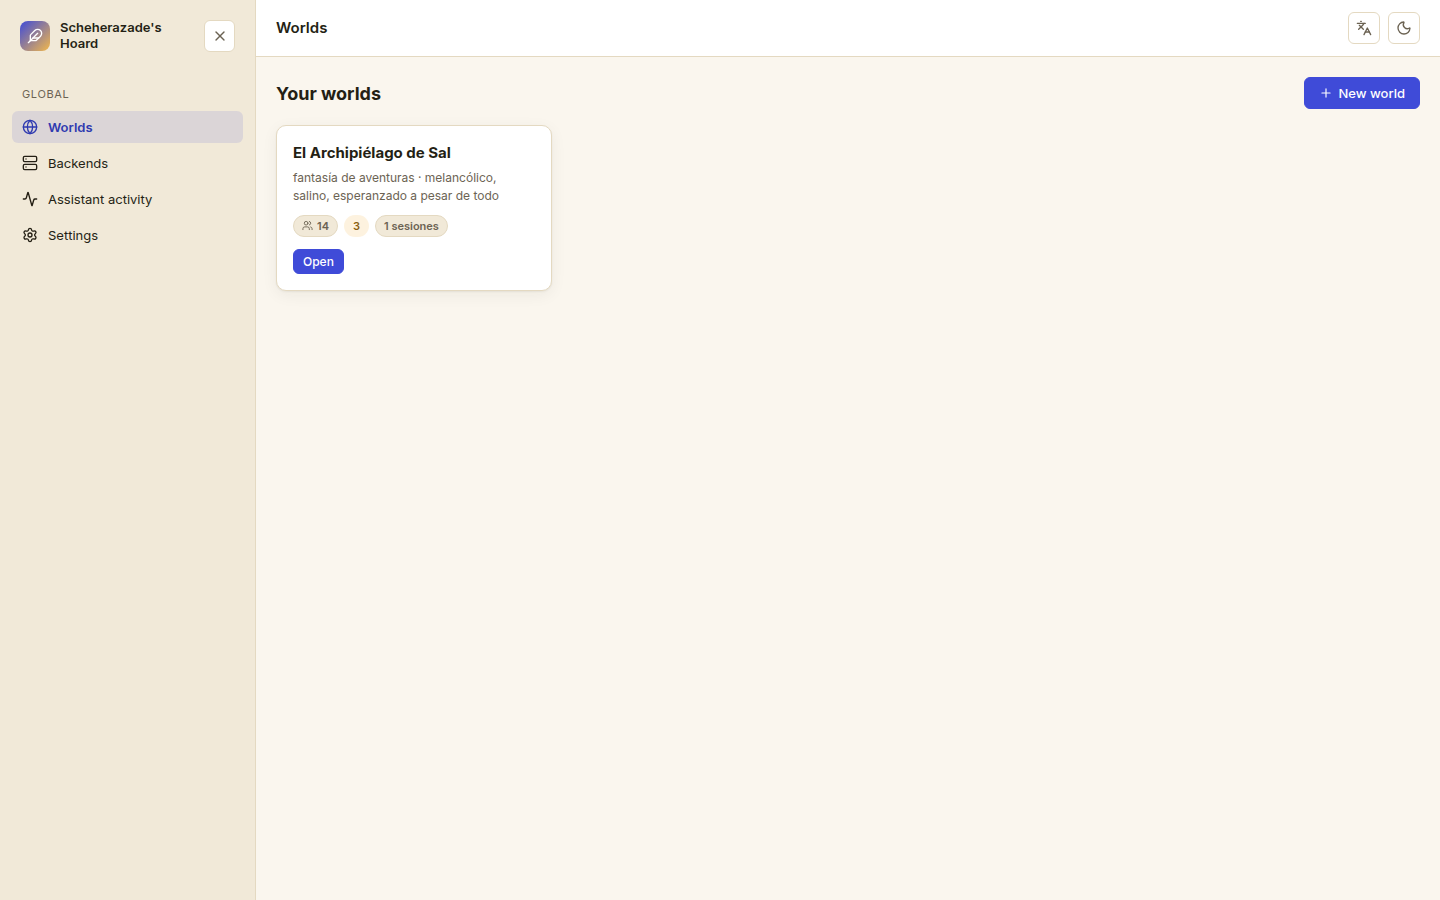
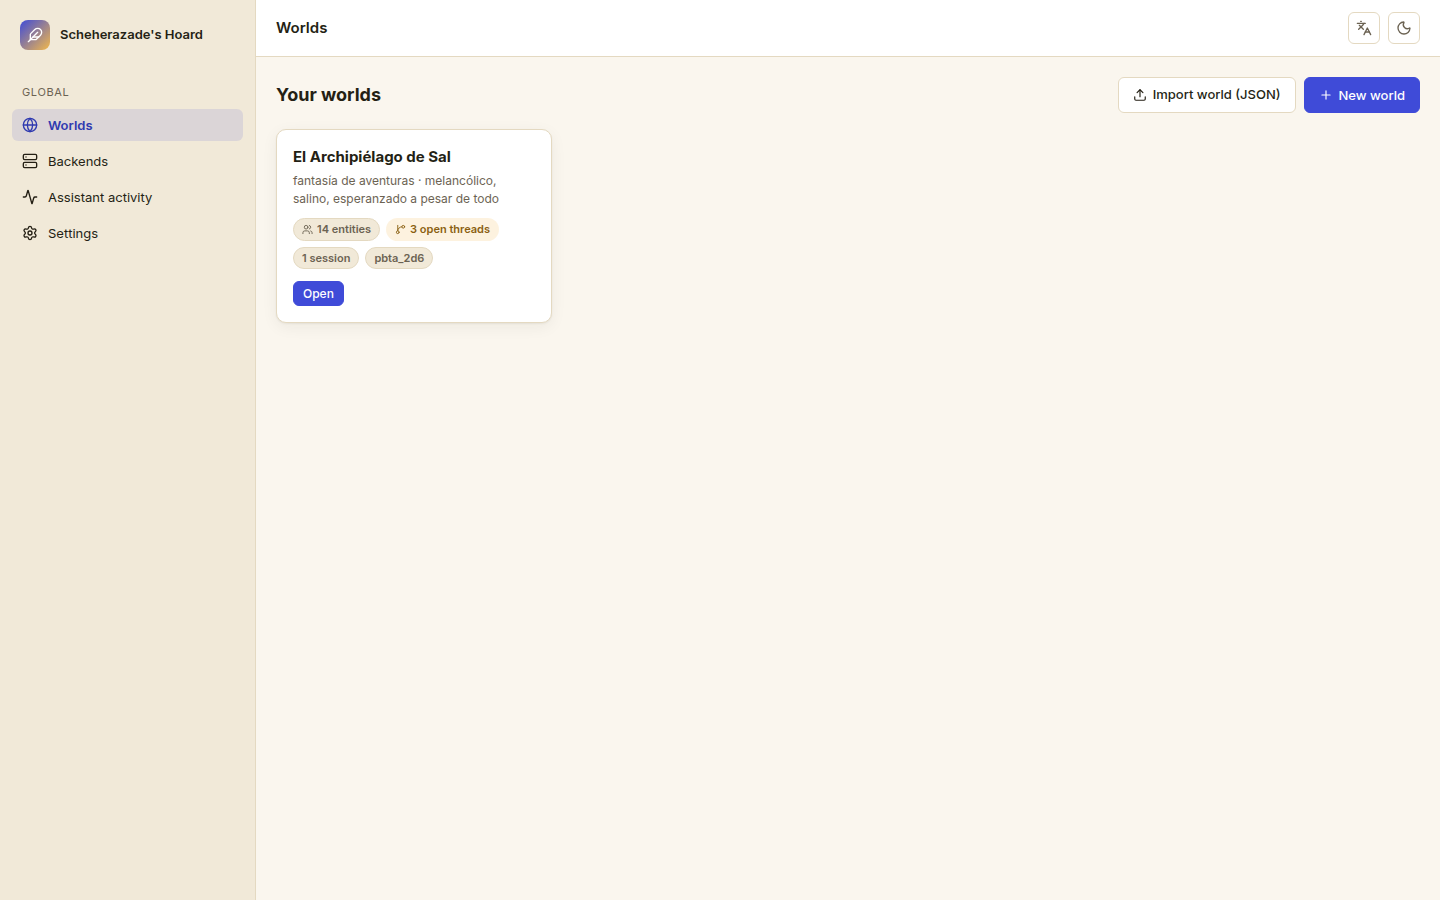
fix: interface polish found reviewing the screenshots, and retake them
- text inputs without an explicit type (dice expression, Bible search,
  forms) fell outside the input styles and rendered as bare browser
  controls; they now share the app's field style;
- the mobile drawer's close button showed on the desktop sidebar;
- world cards showed unlabeled numbers and a Spanish 'sesiones' in the
  English interface; they are labeled, pluralised and show the ruleset;
- thread statuses and move buttons were raw English values in both
  languages, the new-thread form was labeled 'World name', and empty
  kanban columns gave no cue;
- Bible relations read as sentences ('Tomás protege a Marisol');
- the demo roll lines no longer print the total twice.
Screenshots retaken from a fresh --demo run: the Play scene panel now
shows the location and cast (it was empty because of the scene
carry-over bug), plus a Spanish Play screen for README.es.md. The
screenshot script keeps files as real PNGs when shrinking.

Claude-Session: https://claude.ai/code/session_019KVoFTp2agjwLaonbFXam5

diff --git a/frontend/src/pages/ThreadsClocksPage.tsx b/frontend/src/pages/ThreadsClocksPage.tsx
@@ -140,14 +140,17 @@ export function ThreadsClocksPage({ world, lang }: { world: World; lang: Lang })
         <div className="kanban" style={{ marginBottom: 24 }}>
           {STATUSES.map((status) => (
             <div key={status} className="kanban-col">
-              <div className="panel-title"><Badge kind={statusKind(status)}>{status}</Badge></div>
+              <div className="panel-title"><Badge kind={statusKind(status)}>{t(`status_${status}`, lang)}</Badge></div>
+              {threads.filter((th) => th.status === status).length === 0 && (
+                <div className="kanban-empty">{t("kanban_empty", lang)}</div>
+              )}
               {threads.filter((th) => th.status === status).map((th) => (
                 <div key={th.id} className="card">
                   <strong style={{ fontSize: 13 }}>{th.title}</strong>
                   {th.notes && <p style={{ fontSize: 12, color: "var(--text-muted)", margin: "4px 0" }}>{th.notes}</p>}
                   <div className="tag-row" style={{ marginTop: 6 }}>
                     {STATUSES.filter((s) => s !== status).map((s) => (
-                      <button key={s} className="btn btn-sm" onClick={() => changeStatus(th, s)}>{s}</button>
+                      <button key={s} className="btn btn-sm" onClick={() => changeStatus(th, s)}>→ {t(`status_${s}`, lang)}</button>
                     ))}
                   </div>
                 </div>
@@ -159,7 +162,7 @@ export function ThreadsClocksPage({ world, lang }: { world: World; lang: Lang })
 
       {addingThread ? (
         <div className="card" style={{ marginBottom: 24, maxWidth: 420 }}>
-          <Field label={t("world_name", lang)}>
+          <Field label={t("thread_title", lang)}>
             <input value={threadTitle} onChange={(e) => setThreadTitle(e.target.value)} autoFocus />
           </Field>
           <div style={{ display: "flex", gap: 8 }}>

diff --git a/frontend/src/pages/WorldsPage.tsx b/frontend/src/pages/WorldsPage.tsx
@@ -1,5 +1,5 @@
 import { useState } from "react";
-import { BookOpen, Plus, Upload, Users } from "lucide-react";
+import { BookOpen, GitBranch, Plus, Upload, Users } from "lucide-react";
 import { api, ApiError } from "../lib/api";
 import type { Lang } from "../lib/i18n";
 import { t } from "../lib/i18n";
@@ -128,9 +128,10 @@ export function WorldsPage({
               </p>
               {w.counts && (
                 <div className="tag-row" style={{ marginBottom: 12 }}>
-                  <span className="badge"><Users size={11} /> {w.counts.entities}</span>
-                  <span className="badge badge-gold">{w.counts.open_threads}</span>
-                  <span className="badge">{w.counts.sessions} sesiones</span>
+                  <span className="badge" title={t("worlds_entities", lang)}><Users size={11} /> {w.counts.entities} {t("worlds_entities", lang)}</span>
+                  <span className="badge badge-gold" title={t("worlds_open_threads", lang)}><GitBranch size={11} /> {w.counts.open_threads} {t("worlds_open_threads", lang)}</span>
+                  <span className="badge">{w.counts.sessions} {t(w.counts.sessions === 1 ? "worlds_session_one" : "worlds_session_many", lang)}</span>
+                  <span className="badge">{w.ruleset}</span>
                 </div>
               )}
               <button className="btn btn-primary btn-sm" onClick={() => onSelect(w.id)}>

diff --git a/frontend/src/lib/i18n.ts b/frontend/src/lib/i18n.ts
@@ -1,7 +1,7 @@
 export type Lang = "es" | "en";
 
 const dict = {
-  appName: { es: "El Tesoro de Scheherazade", en: "Scheherazade's Hoard" },
+  appName: { es: "Scheherazade's Hoard", en: "Scheherazade's Hoard" },
   nav_worlds: { es: "Mundos", en: "Worlds" },
   nav_play: { es: "Jugar", en: "Play" },
   nav_bible: { es: "Biblia", en: "Bible" },
@@ -19,6 +19,16 @@ const dict = {
   worlds_empty: { es: "Aún no has creado ningún mundo. Crea el primero para empezar a narrar.", en: "You haven't created a world yet. Create your first one to start narrating." },
   worlds_new: { es: "Nuevo mundo", en: "New world" },
   worlds_open: { es: "Abrir", en: "Open" },
+  worlds_entities: { es: "entidades", en: "entities" },
+  worlds_open_threads: { es: "hilos abiertos", en: "open threads" },
+  worlds_session_one: { es: "sesión", en: "session" },
+  worlds_session_many: { es: "sesiones", en: "sessions" },
+  status_open: { es: "Abierto", en: "Open" },
+  status_advanced: { es: "Avanzado", en: "Advanced" },
+  status_resolved: { es: "Resuelto", en: "Resolved" },
+  status_abandoned: { es: "Abandonado", en: "Abandoned" },
+  thread_title: { es: "Título del hilo", en: "Thread title" },
+  kanban_empty: { es: "Nada aquí todavía", en: "Nothing here yet" },
   world_name: { es: "Nombre", en: "Name" },
   world_genre: { es: "Género", en: "Genre" },
   world_tone: { es: "Tono", en: "Tone" },

diff --git a/frontend/src/pages/BiblePage.tsx b/frontend/src/pages/BiblePage.tsx
@@ -186,10 +186,11 @@ export function BiblePage({ world, lang }: { world: World; lang: Lang }) {
                 <div className="panel-title">{t("bible_relations", lang)}</div>
                 {detail.relations.map((r) => (
                   <div key={r.id} style={{ fontSize: 13, marginBottom: 4 }}>
+                    {/* read as a sentence: "Marisol trusts Tomás" / "Tomás protects Marisol" */}
                     {r.direction === "out" ? (
-                      <>{r.type} → <button className="link-button" onClick={() => setSelectedRef(r.other_ref ?? r.other_id)}>{r.other_name}</button></>
+                      <>{detail.name} <em>{r.type}</em> <button className="link-button" onClick={() => setSelectedRef(r.other_ref ?? r.other_id)}>{r.other_name}</button></>
                     ) : (
-                      <><button className="link-button" onClick={() => setSelectedRef(r.other_ref ?? r.other_id)}>{r.other_name}</button> → {r.type}</>
+                      <><button className="link-button" onClick={() => setSelectedRef(r.other_ref ?? r.other_id)}>{r.other_name}</button> <em>{r.type}</em> {detail.name}</>
                     )}
                     {r.note && <span style={{ color: "var(--text-muted)" }}> ({r.note})</span>}
                   </div>

diff --git a/frontend/src/styles/global.css b/frontend/src/styles/global.css
@@ -325,7 +325,9 @@ a {
   border-radius: var(--radius);
 }
 
+input:not([type]),
 input[type="text"],
+input[type="search"],
 input[type="number"],
 input[type="password"],
 input[type="url"],
@@ -705,4 +707,27 @@ table.simple th {
   border-radius: 8px;
   background: var(--accent-soft);
   color: var(--text);
+}
+
+/* the close button only makes sense for the mobile drawer */
+.sidebar-close { display: none; }
+@media (max-width: 760px) {
+  .sidebar-close { display: flex; }
+}
+
+.kanban-empty {
+  font-size: 12px;
+  color: var(--text-muted);
+  border: 1px dashed var(--border);
+  border-radius: var(--radius-sm);
+  padding: 14px 12px;
+  text-align: center;
+}
+
+/* a <label> used as a button (file inputs) must not inherit form-label styles */
+label.btn {
+  display: inline-flex;
+  font-size: 13px;
+  color: var(--text);
+  margin-bottom: 0;
 }

diff --git a/frontend/src/components/Sidebar.tsx b/frontend/src/components/Sidebar.tsx
@@ -41,7 +41,7 @@ export function Sidebar({
           <Feather size={16} />
         </div>
         <div className="sidebar-brand-name">{t("appName", lang)}</div>
-        <button className="icon-button" style={{ marginLeft: "auto" }} onClick={onCloseMobile} aria-label="close">
+        <button className="icon-button sidebar-close" style={{ marginLeft: "auto" }} onClick={onCloseMobile} aria-label="close">
           <X size={16} />
         </button>
       </div>

diff --git a/scripts/screenshots.py b/scripts/screenshots.py
@@ -10,8 +10,9 @@ http://127.0.0.1:18860). Uses the Playwright chromium browser that is
 already installed on this machine (PLAYWRIGHT_BROWSERS_PATH) -- it never
 calls `playwright install`.
 
-Saves PNGs under docs/media/, downsizing with Pillow if any file lands
-above ~400KB.
+Saves PNGs under docs/media/ (English interface, plus the Play screen in
+Spanish for README.es.md), quantizing with Pillow if any file lands above
+~400KB.
 """
 
 from __future__ import annotations
@@ -44,25 +45,48 @@ def _find_chromium_executable() -> str | None:
 
 
 def shrink_if_needed(path: Path) -> None:
+    """Keep it a PNG: quantize to a 256-colour palette if it is too big."""
     if path.stat().st_size <= MAX_BYTES:
         return
     try:
         from PIL import Image
     except ImportError:
         return
-    img = Image.open(path)
-    img = img.convert("RGB")
-    quality = 85
-    while quality >= 40:
-        img.save(path.with_suffix(".jpg"), "JPEG", quality=quality, optimize=True)
-        jpg = path.with_suffix(".jpg")
-        if jpg.stat().st_size <= MAX_BYTES:
-            jpg.rename(path.with_suffix(".png"))
-            return
-        quality -= 15
-    # Last resort: leave the PNG as-is (still a valid, if larger, screenshot).
-    if path.with_suffix(".jpg").exists():
-        path.with_suffix(".jpg").unlink()
+    with Image.open(path) as img:
+        small = img.convert("RGB").quantize(colors=256, method=Image.Quantize.MEDIANCUT)
+    small.save(path, "PNG", optimize=True)
+
+
+def shoot(page, base_url: str, lang: str, suffix: str = "") -> None:
+    """The four README views, with the interface in `lang`."""
+    page.add_init_script(f"localStorage.setItem('scheherazade.lang', '{lang}')")
+    page.goto(base_url, wait_until="networkidle")
+    page.wait_for_selector(".grid-cards, .empty-state", timeout=10000)
+    if not suffix:
+        page.screenshot(path=str(OUT_DIR / "01-worlds.png"))
+
+    # Play screen of the demo world.
+    page.click(".grid-cards .card .btn-primary")
+    page.wait_for_selector(".play-layout", timeout=10000)
+    page.wait_for_selector(".chip", timeout=10000)  # the scene's cast has loaded
+    time.sleep(0.5)
+    page.screenshot(path=str(OUT_DIR / f"02-play{suffix}.png"))
+    if suffix:
+        return
+
+    # Bible, on a character with relations and established facts.
+    page.click("nav >> text=Bible")
+    page.wait_for_selector(".bible-layout", timeout=10000)
+    page.locator(".entity-list-item", has_text="Marisol Vega").first.click()
+    page.wait_for_selector("text=Relations", timeout=10000)
+    time.sleep(0.3)
+    page.screenshot(path=str(OUT_DIR / "03-bible.png"))
+
+    # Threads & clocks.
+    page.click("nav >> text=Threads & clocks")
+    page.wait_for_selector(".kanban", timeout=10000)
+    time.sleep(0.3)
+    page.screenshot(path=str(OUT_DIR / "04-threads.png"))
 
 
 def main() -> None:
@@ -72,35 +96,11 @@ def main() -> None:
     with sync_playwright() as p:
         exe = _find_chromium_executable()
         browser = p.chromium.launch(executable_path=exe) if exe else p.chromium.launch()
-        page = browser.new_page(viewport={"width": 1440, "height": 900}, device_scale_factor=1)
-
-        # 1) Worlds list.
-        page.goto(base_url, wait_until="networkidle")
-        page.wait_for_selector(".grid-cards, .empty-state", timeout=10000)
-        page.screenshot(path=str(OUT_DIR / "01-worlds.png"))
-
-        # 2) Open the demo world -> Play screen.
-        page.click(".grid-cards .card .btn-primary")
-        page.wait_for_selector(".play-layout", timeout=10000)
-        time.sleep(0.5)  # let the world_context call settle
-        page.screenshot(path=str(OUT_DIR / "02-play.png"))
-
-        # 3) Bible (world entities).
-        page.click("text=Biblia >> visible=true", timeout=5000) if page.locator("text=Biblia").count() else page.click("text=Bible")
-        page.wait_for_selector(".bible-layout", timeout=10000)
-        first_entity = page.locator(".entity-list-item").first
-        if first_entity.count():
-            first_entity.click()
-            time.sleep(0.3)
-        page.screenshot(path=str(OUT_DIR / "03-bible.png"))
-
-        # 4) Threads & clocks.
-        if page.locator("text=Hilos y relojes").count():
-            page.click("text=Hilos y relojes")
-        else:
-            page.click("text=Threads & clocks")
-        page.wait_for_selector(".kanban", timeout=10000)
-        page.screenshot(path=str(OUT_DIR / "04-threads.png"))
+        for lang, suffix in (("en", ""), ("es", "-es")):
+            page = browser.new_page(viewport={"width": 1440, "height": 900}, device_scale_factor=1,
+                                    color_scheme="light")
+            shoot(page, base_url, lang, suffix)
+            page.close()
 
         browser.close()
 

diff --git a/scheherazades_hoard/demo.py b/scheherazades_hoard/demo.py
@@ -232,7 +232,7 @@ def seed_demo_world(conn) -> dict:
     add("dialogue", "user", "«Deberíamos zarpar antes de que suba la marea», le digo a Tomás.")
     add("dialogue", "narrator", "Tomás no levanta la vista de la red. «La marea siempre sube. La pregunta es adónde vamos.»")
     r1 = logged_move("sagacidad", 101, "Marisol recuerda el rumbo de la Brújula de Hueso")
-    add("roll", "agent", f"Marisol intenta recordar el rumbo que la Brújula de Hueso señaló anoche (2d6+sagacidad = {r1['total']}).",
+    add("roll", "agent", "Marisol intenta recordar el rumbo que la Brújula de Hueso señaló anoche (2d6+sagacidad).",
         rolls=[r1])
     add("narration", "narrator",
         "Un golpe parcial: recuerda casi todo, salvo un detalle que se le escapa entre la niebla — "
@@ -241,7 +241,7 @@ def seed_demo_world(conn) -> dict:
                                "entity_ids": [brujula["ref"], bancos["ref"]]}]})
     add("action", "user", "Reviso el casco en busca de daños antes de decidir nada.")
     r2 = logged_move("brutalidad", 201, "Marisol revisa el casco del Argento II")
-    add("roll", "agent", f"Marisol revisa el casco palmo a palmo (2d6+brutalidad = {r2['total']}).",
+    add("roll", "agent", "Marisol revisa el casco palmo a palmo (2d6+brutalidad).",
         rolls=[r2])
     add("narration", "narrator",
         "El casco aguanta, pero por poco. Tomás señala una vía de agua nueva cerca de la quilla — "
